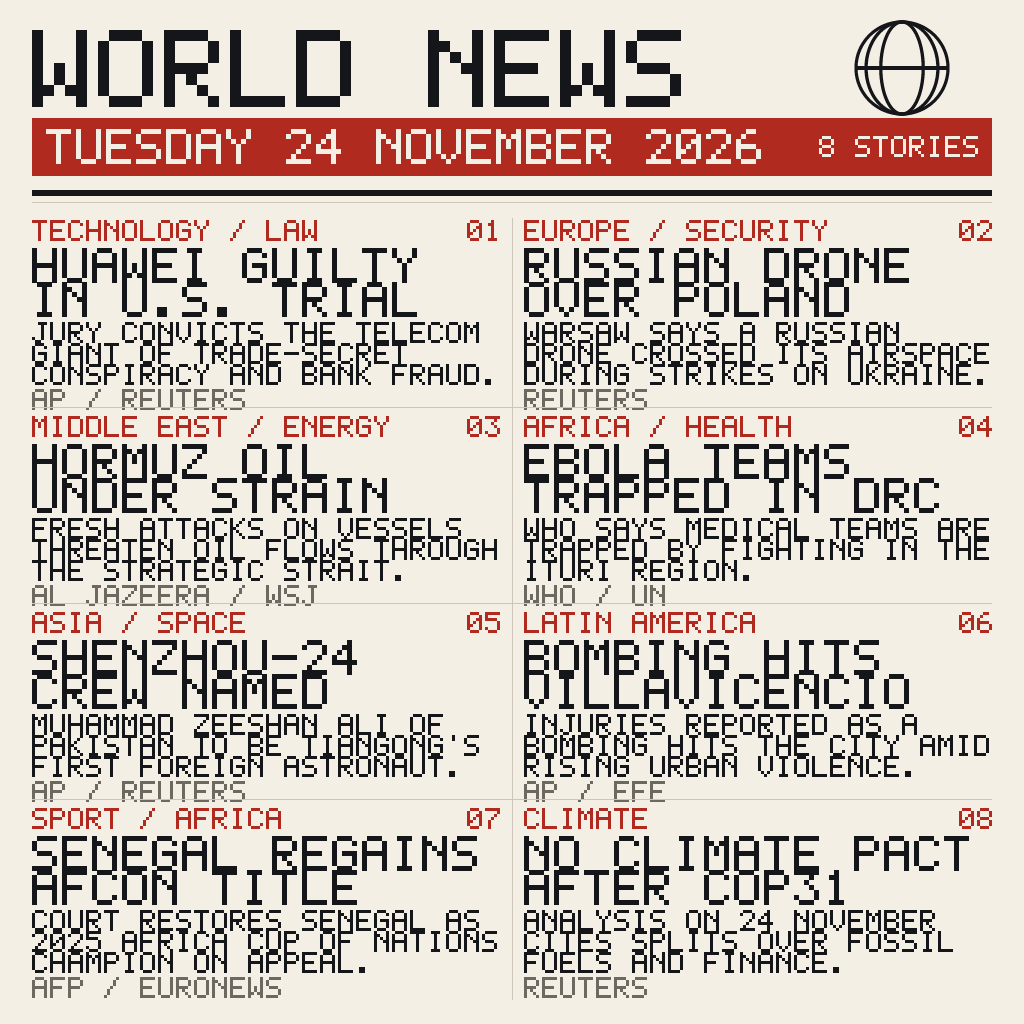
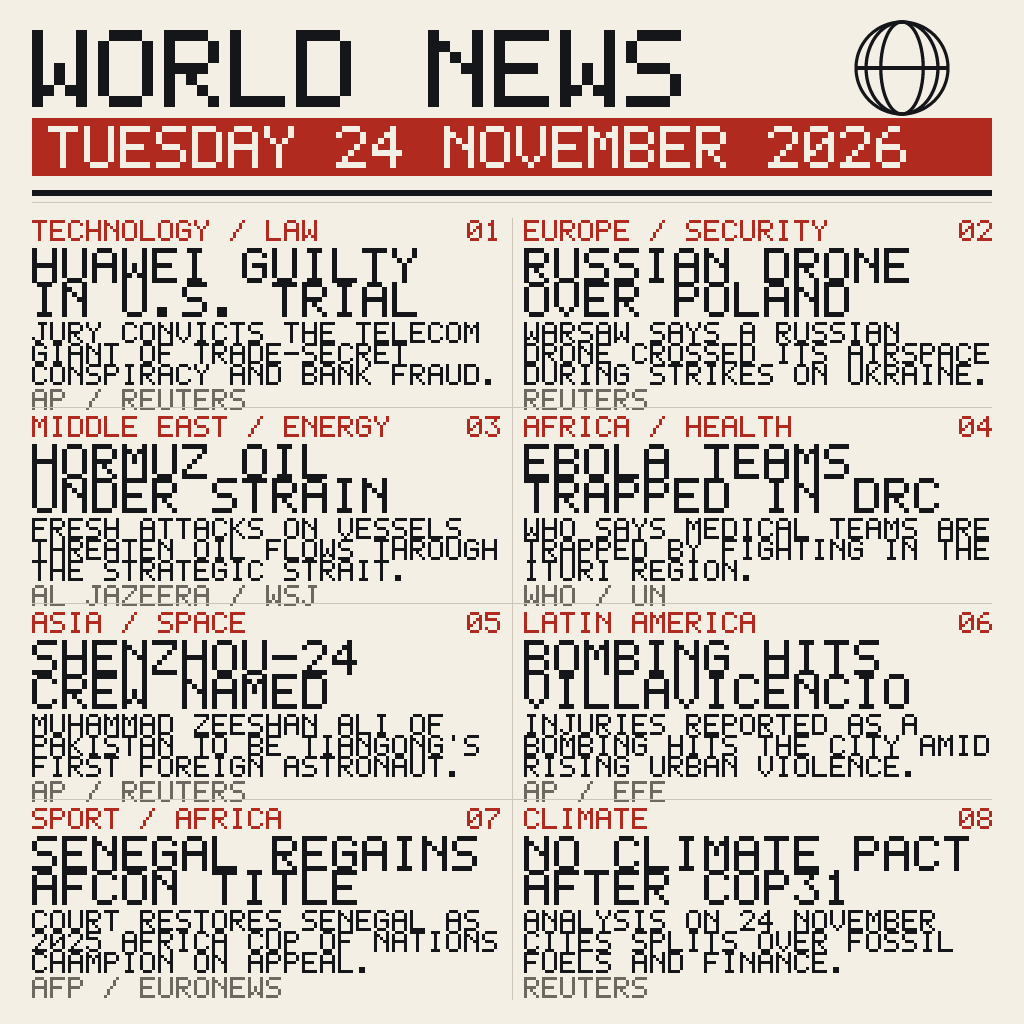
Set the date a size larger and document the test run

Changed region(s): [[0.0312, 0.125, 0.9688, 0.1875]]

diff --git a/main.py b/main.py
@@ -301,11 +301,8 @@ def build_page(warnings=None):
     bar_top = 118
     bar_height = 58
     canvas.rect(margin, bar_top, WIDTH - 2 * margin, bar_height, RED)
-    date_scale = 5
-    draw_text(canvas, margin + 14, bar_top + 11, DAY, date_scale, PAPER)
-    tag = "8 STORIES"
-    draw_text(canvas, WIDTH - margin - 14 - text_width(tag, 3),
-              bar_top + (bar_height - GLYPH_ROWS * 3) // 2, tag, 3, PAPER)
+    date_scale = 6
+    draw_text(canvas, margin + 16, bar_top + 8, DAY, date_scale, PAPER)
 
     canvas.rect(margin, 190, WIDTH - 2 * margin, 6, INK)
     canvas.rect(margin, 202, WIDTH - 2 * margin, 1, RULE)

diff --git a/README.md b/README.md
@@ -22,6 +22,18 @@ Python 3.13, standard library only. The page is written to `/output/entry.png`, 
 PNG encoder over `zlib`. The layout is laid out from constants, never measured from the clock or
 from a random source, so two runs write byte-identical files.
 
+## Test it
+
+```sh
+python3 -m unittest discover -s tests
+```
+
+The suite renders the page twice into temporary directories and holds both runs to the bounty's
+limits: the same sha256 both times, one whole PNG, 1024 by 1024 at most, under 1 MiB, every headline
+and deck inside the column the layout gives it.
+
+## The day it shows
+
 The picture carries the day and nothing else:
 
 | Story | Region | Wires |
